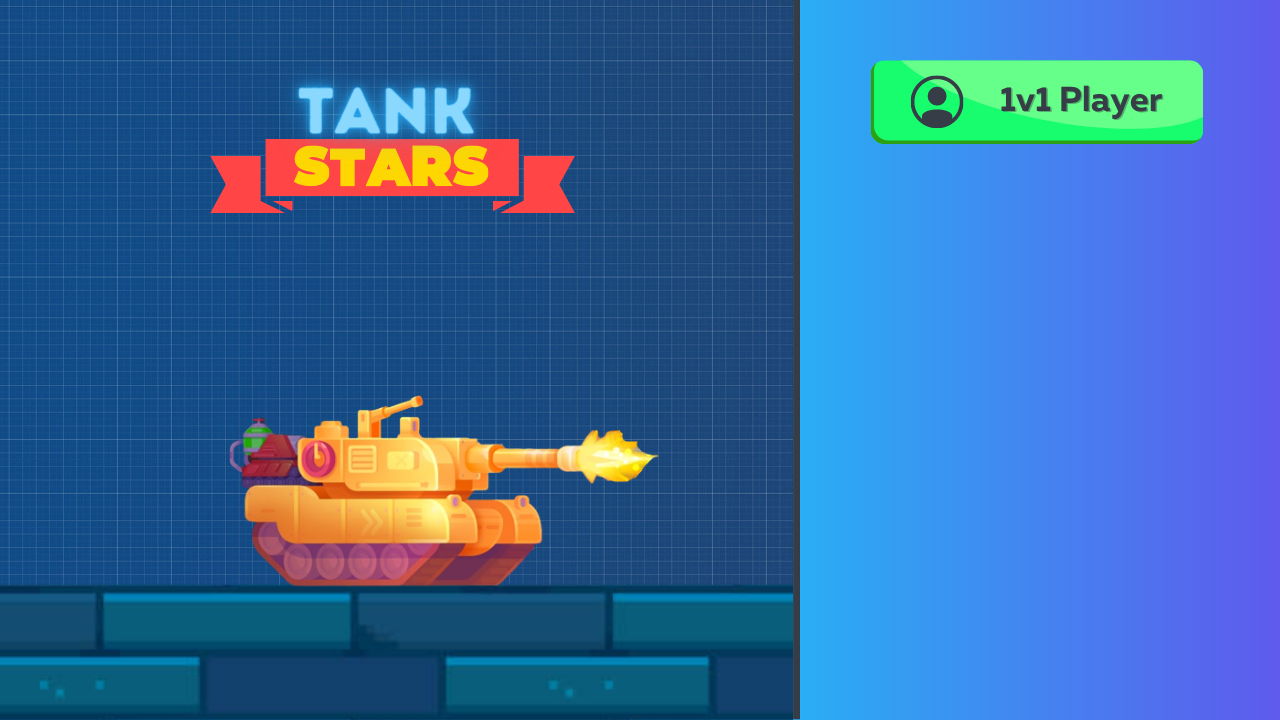
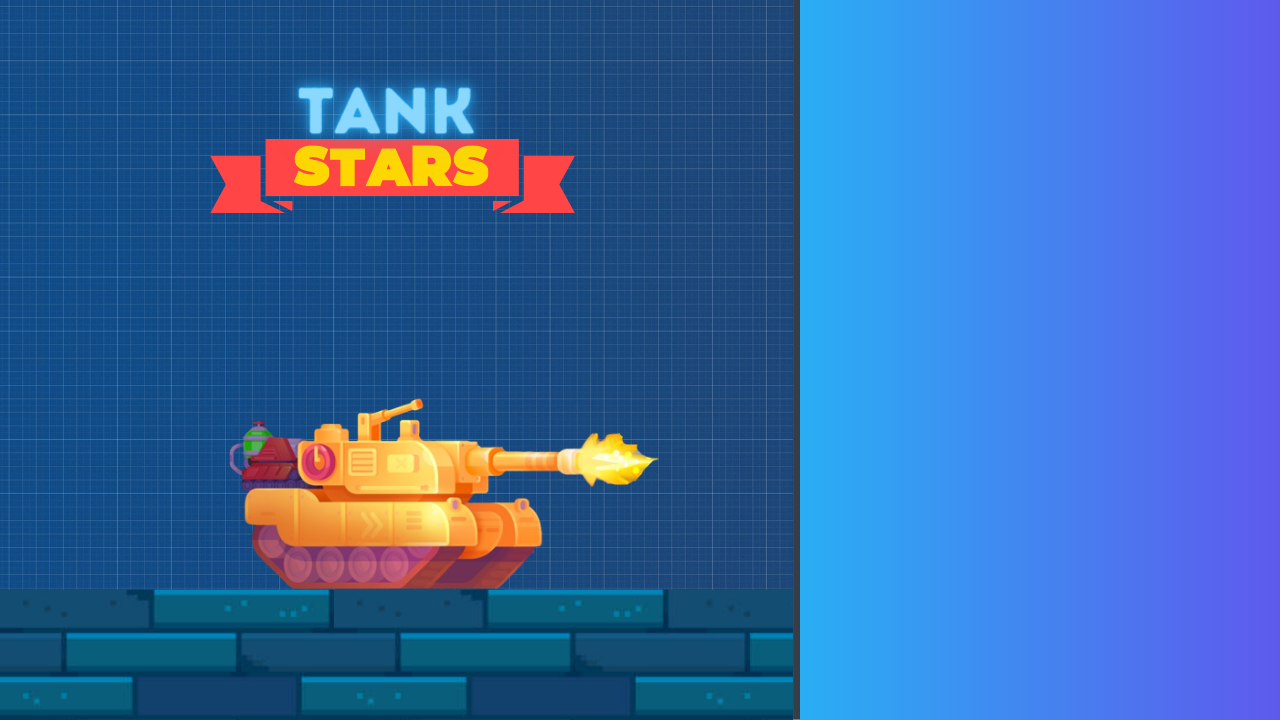
Update MenuScreen class and Add Tank1Screen class

Changed region(s): [[0.0, 0.55, 0.625, 1.0], [0.6562, 0.0611, 0.9375, 0.2139]]

diff --git a/core/src/com/gdx/tankstars/screen/MenuScreen.java b/core/src/com/gdx/tankstars/screen/MenuScreen.java
@@ -3,28 +3,51 @@ package com.gdx.tankstars.screen;
 import com.badlogic.gdx.Gdx;
 import com.badlogic.gdx.Screen;
 import com.badlogic.gdx.graphics.Texture;
+import com.badlogic.gdx.graphics.glutils.ShapeRenderer;
+import com.badlogic.gdx.math.Rectangle;
 import com.gdx.tankstars.TankStarsGame;
 
 public class MenuScreen implements Screen {
 
     TankStarsGame game;
-    Texture startScreen;
+    private ShapeRenderer shapeRenderer;
+    Texture menuScreen;
+    Texture tank1Screen;
+    Texture button1;
 
 
-    public MenuScreen(TankStarsGame myGame) {
-        game = myGame;
+    public MenuScreen(TankStarsGame game) {
+        this.game = game;
     }
 
 
     @Override
     public void show() {
-        startScreen = new Texture(Gdx.files.internal("menu-screen.png"));
+        menuScreen = new Texture(Gdx.files.internal("menu-screen.png"));
+        button1 = new Texture(Gdx.files.internal("button-1.png"));
     }
 
     @Override
     public void render(float delta) {
+        if (Gdx.input.isTouched()) {
+            int x = Gdx.input.getX();
+            int y = Gdx.input.getY();
+            // handle event when button-1 is clicked
+            Rectangle rect1 = new Rectangle();
+            rect1.x = 875;
+            rect1.y = 42;
+            rect1.width = 333;
+            rect1.height = 87;
+            if ((x > rect1.x && x < (rect1.x + rect1.width)) && (y > rect1.y && y < (rect1.y + rect1.height))) {
+                System.out.printf("clicked button x: %d  y: %d\n", x, y);
+                game.setScreen(new Tank1Screen(game));
+            }
+
+        }
+
         game.batch.begin();
-        game.batch.draw(startScreen, 0, 0);
+        game.batch.draw(menuScreen, 0, 0);
+        game.batch.draw(button1, 875, 590);
         game.batch.end();
 
     }

diff --git a/core/src/com/gdx/tankstars/screen/Tank1Screen.java b/core/src/com/gdx/tankstars/screen/Tank1Screen.java
@@ -3,36 +3,32 @@ package com.gdx.tankstars.screen;
 import com.badlogic.gdx.Gdx;
 import com.badlogic.gdx.Screen;
 import com.badlogic.gdx.graphics.Texture;
+import com.badlogic.gdx.graphics.glutils.ShapeRenderer;
 import com.gdx.tankstars.TankStarsGame;
 
-public class StartScreen implements Screen {
+public class Tank1Screen implements Screen {
 
     TankStarsGame game;
-    Texture startScreenTexture;
-    float timeCounter;
+    private ShapeRenderer shapeRenderer;
+    private Texture tank1Screen;
 
-    public StartScreen(TankStarsGame game) {
+    public Tank1Screen(TankStarsGame game) {
         this.game = game;
+        tank1Screen = new Texture(Gdx.files.internal("tank-1-screen.png"));
     }
+
 
 
     @Override
     public void show() {
-        startScreenTexture = new Texture(Gdx.files.internal("start-screen.png"));
+
     }
 
     @Override
     public void render(float delta) {
-        timeCounter += delta;
-
         game.batch.begin();
-        game.batch.draw(startScreenTexture, 0, 0);
+        game.batch.draw(tank1Screen, 0, 0);
         game.batch.end();
-
-        if (timeCounter > 5) {
-            game.setScreen(new MenuScreen(game));
-            this.dispose();
-        }
     }
 
     @Override
@@ -57,6 +53,6 @@ public class StartScreen implements Screen {
 
     @Override
     public void dispose() {
-        startScreenTexture.dispose();
+
     }
 }
